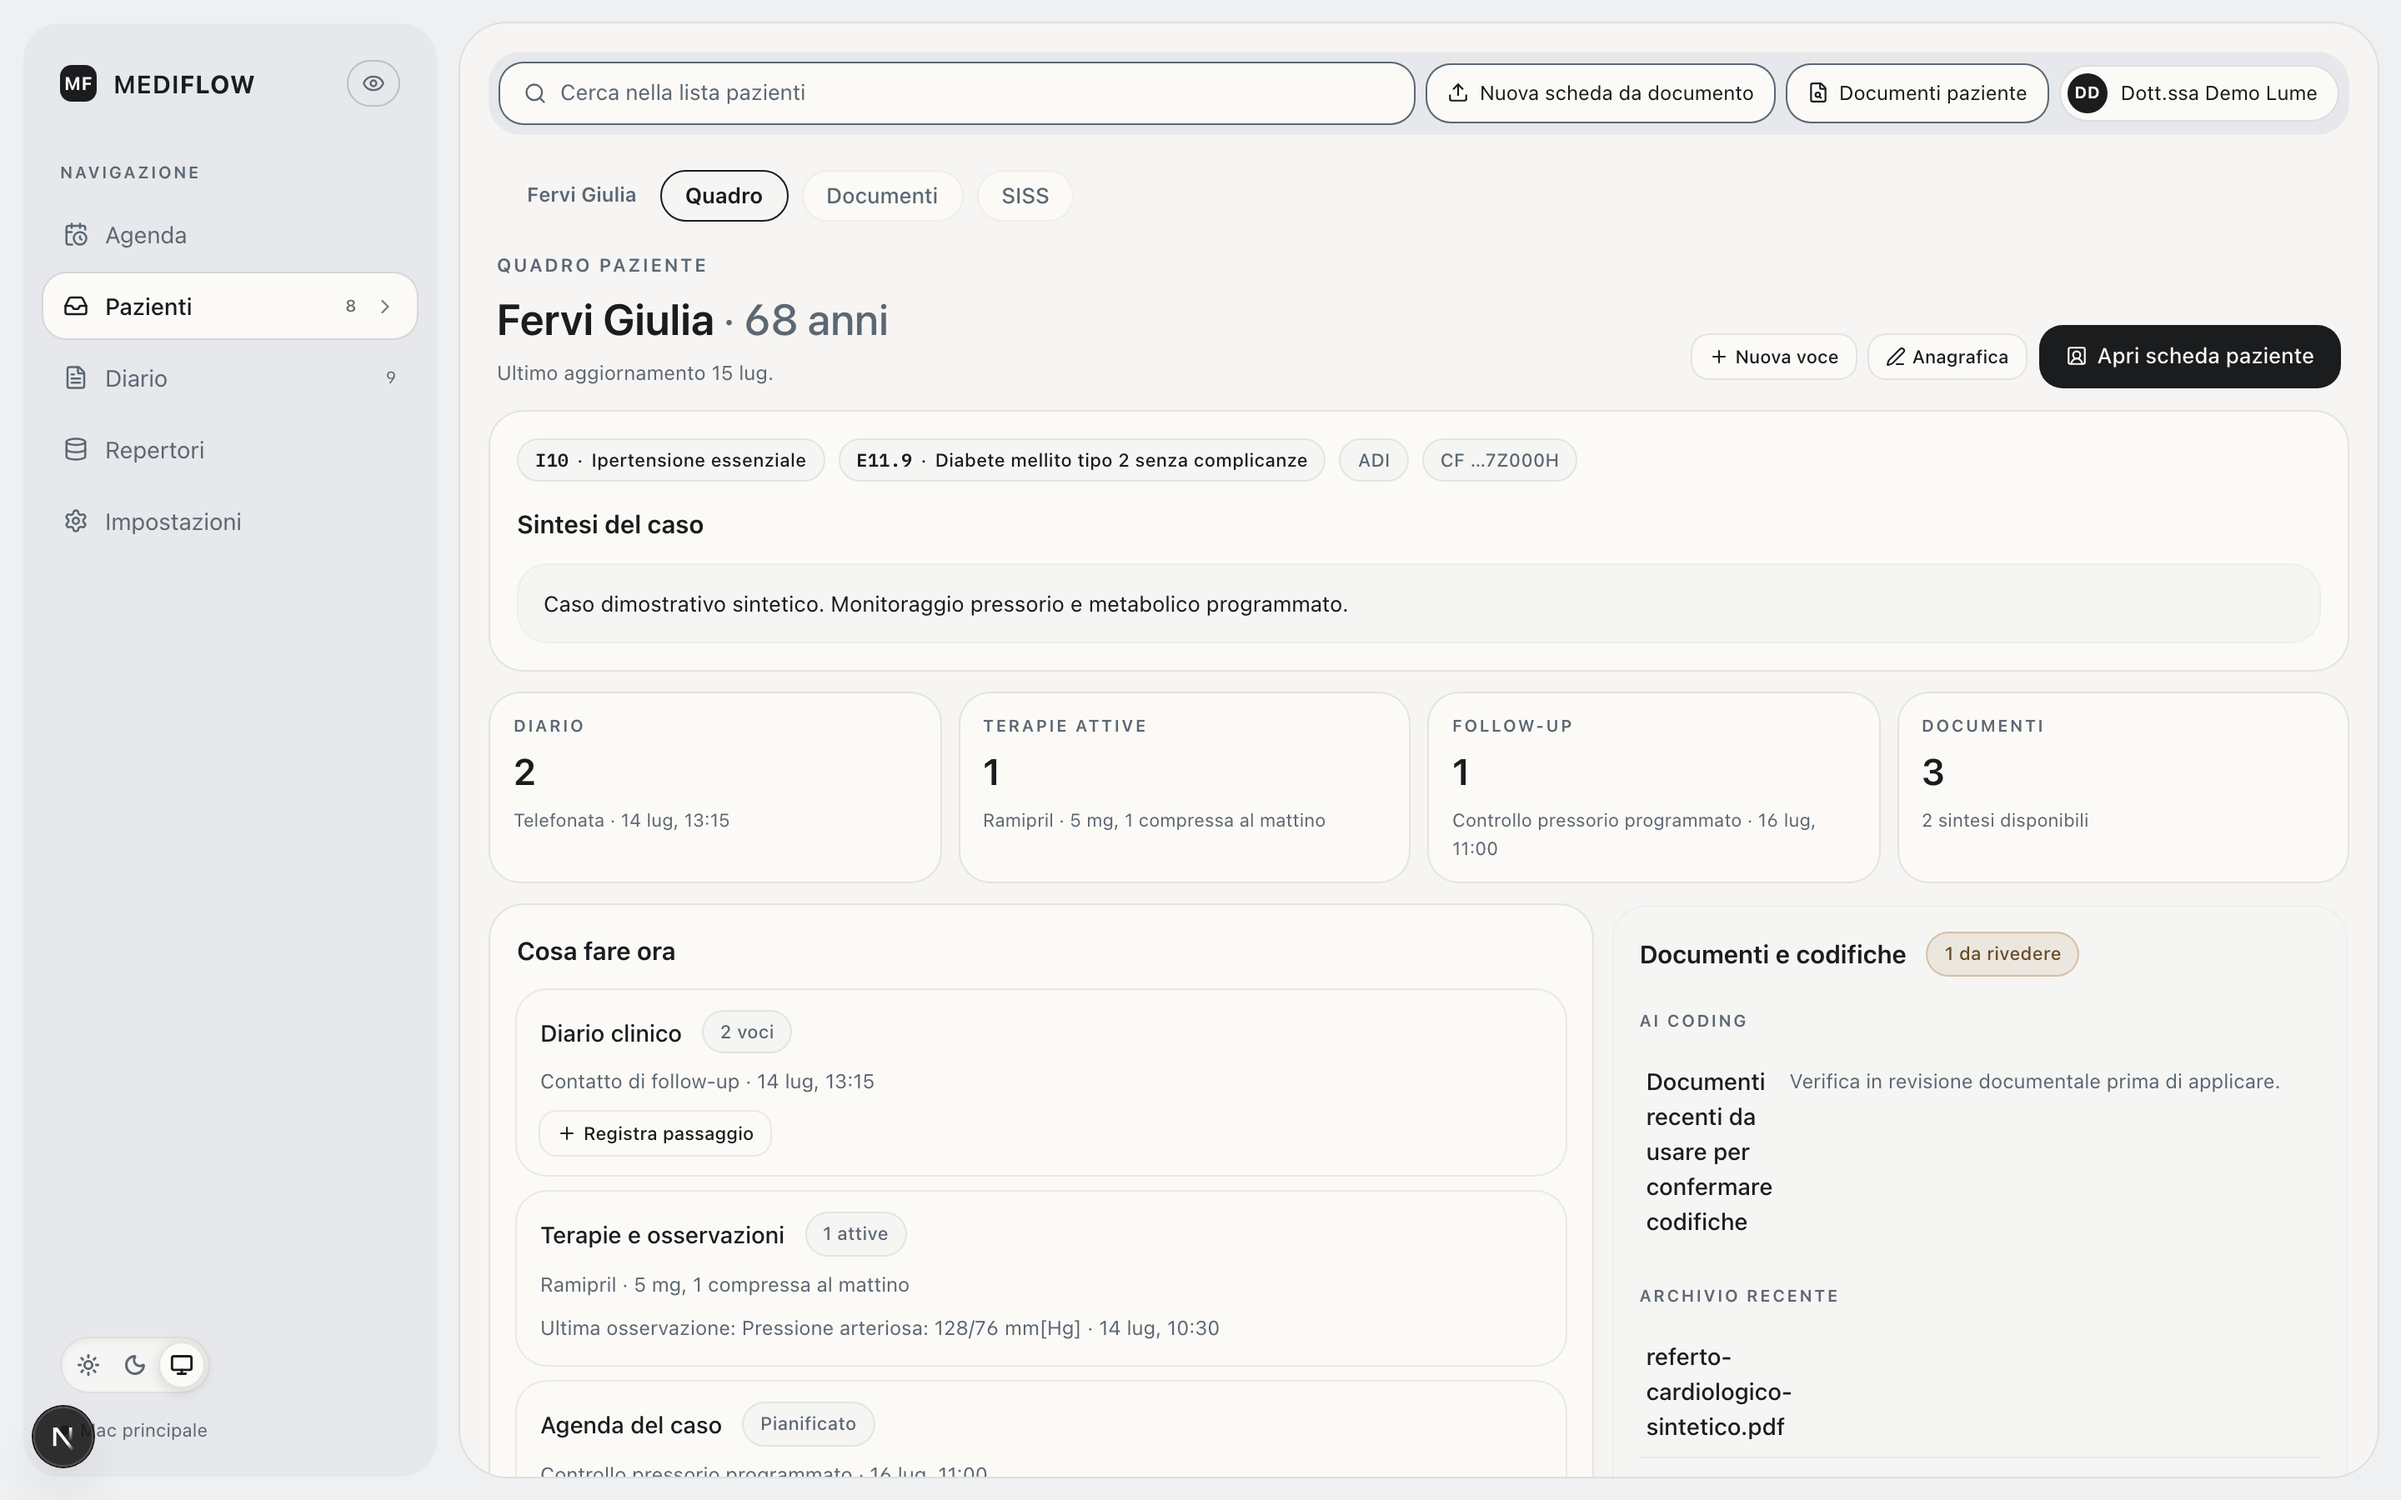
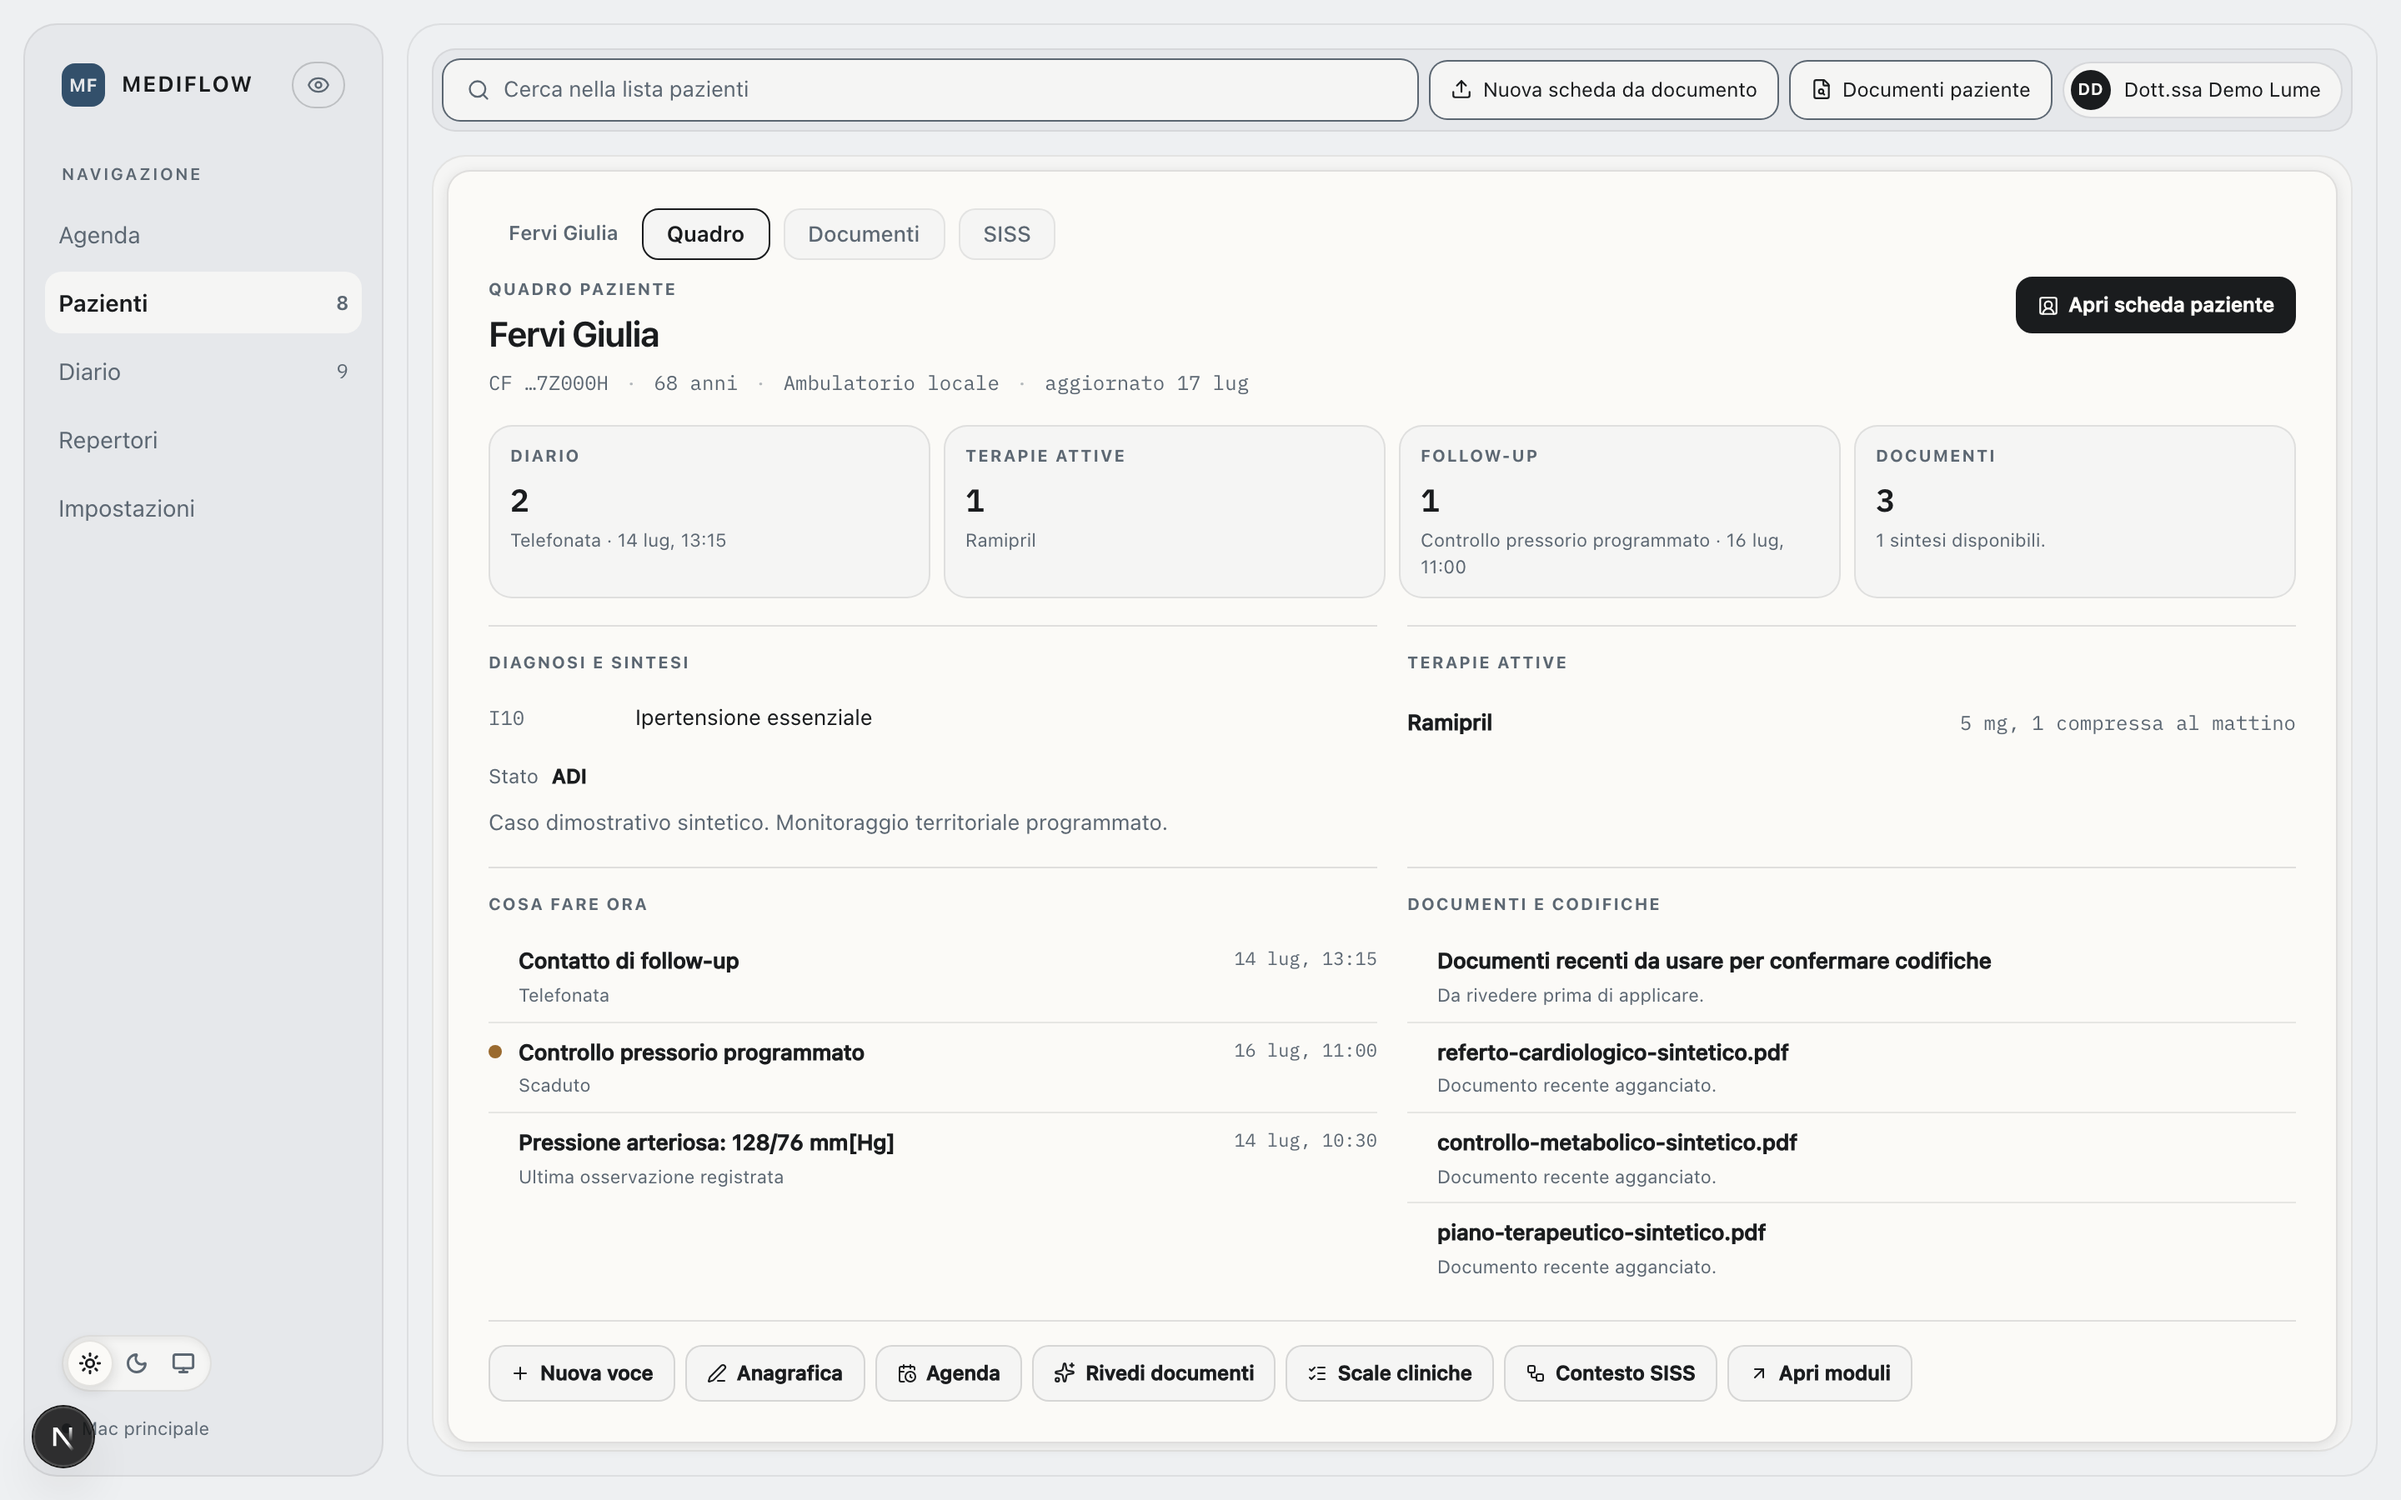
docs: regenerate Lume screenshots
Refs #114
Refs #68

diff --git a/README.md b/README.md
@@ -71,7 +71,7 @@ fixture dimostrative sintetiche. Nessun dato paziente reale._
 <p><img src="./screenshots/02-scheda.png" alt="Scheda paziente con moduli clinici" width="820" loading="lazy" decoding="async"/></p>
 <p><img src="./screenshots/03-quadro.png" alt="Quadro paziente nel cockpit" width="820" loading="lazy" decoding="async"/></p>
 <p><img src="./screenshots/04-review.png" alt="Revisione documenti e codifiche con evidenze sintetiche da confermare" width="820" loading="lazy" decoding="async"/></p>
-<p><img src="./screenshots/05-security.png" alt="Impostazioni di accesso e sicurezza locale" width="820" loading="lazy" decoding="async"/></p>
+<p><img src="./screenshots/05-security.png" alt="Schermata di blocco locale con richiesta del PIN operatore" width="820" loading="lazy" decoding="async"/></p>
 </details>
 
 ## Come è fatto

diff --git a/docs/design/lume/README.md b/docs/design/lume/README.md
@@ -73,6 +73,8 @@ Gli studi in [mockups/](./mockups/) sono apribili nel browser e non hanno dipend
 
 Queste immagini sono evidenza dello stato corrente. Non dichiarano il target Lume raggiunto.
 
+Snapshot runtime: 2026-07-17, registro Giorno, viewport 1440x900 a scala 2, fixture esclusivamente sintetiche.
+
 - [01-worklist.png](../../../screenshots/01-worklist.png)
 - [02-scheda.png](../../../screenshots/02-scheda.png)
 - [03-quadro.png](../../../screenshots/03-quadro.png)
